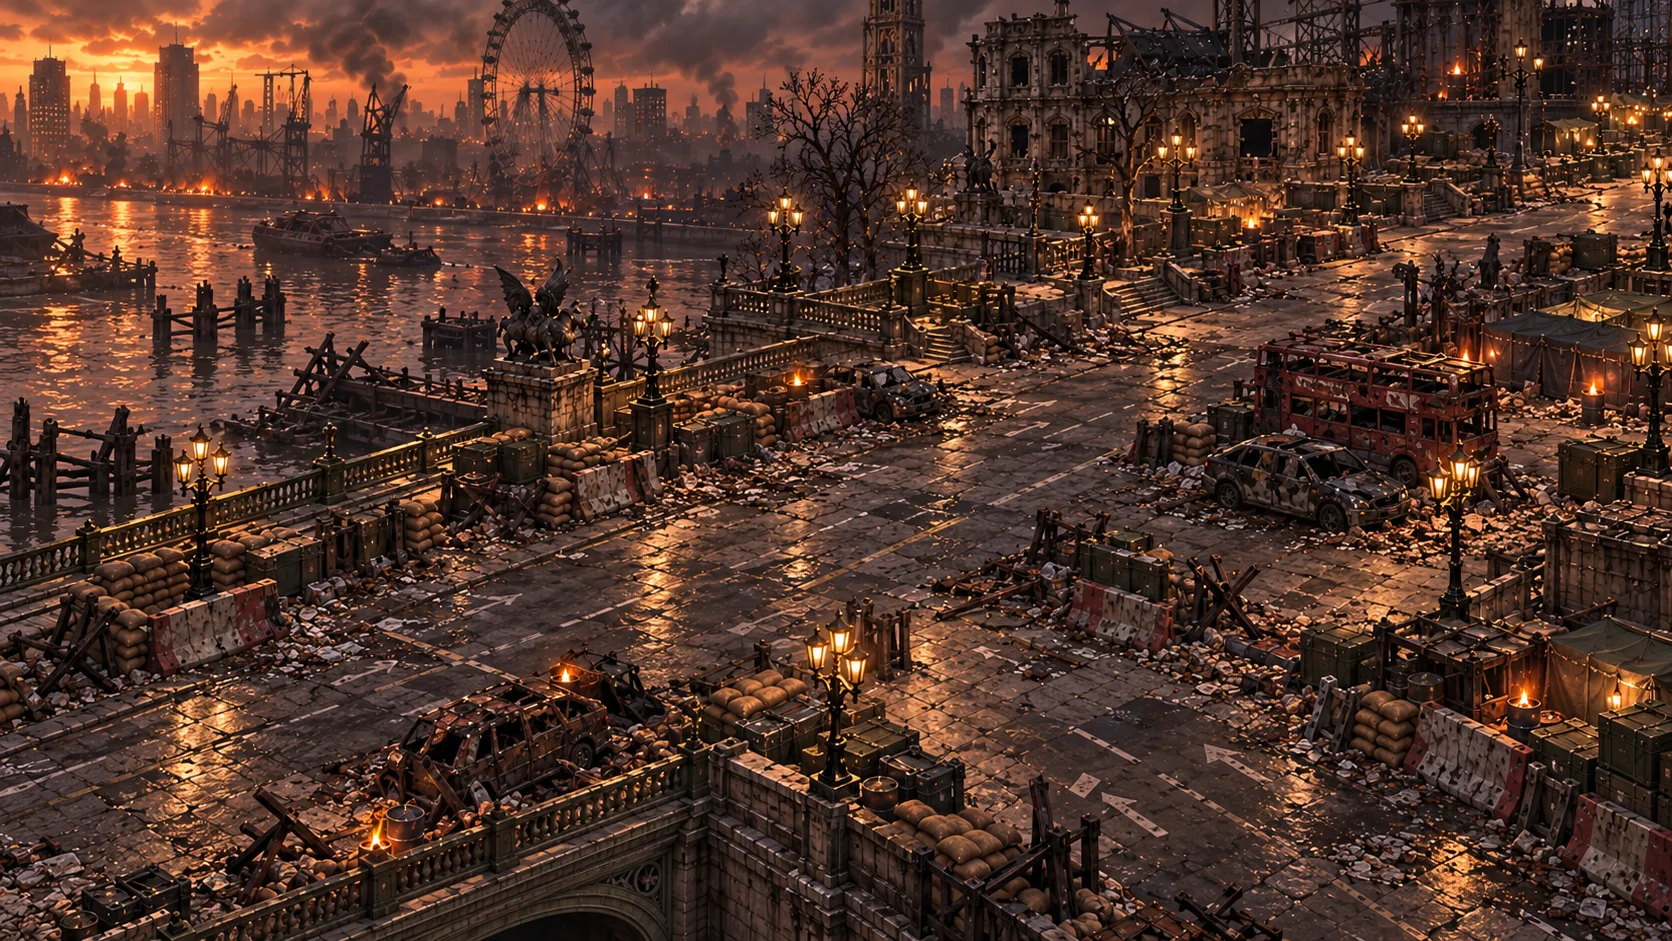
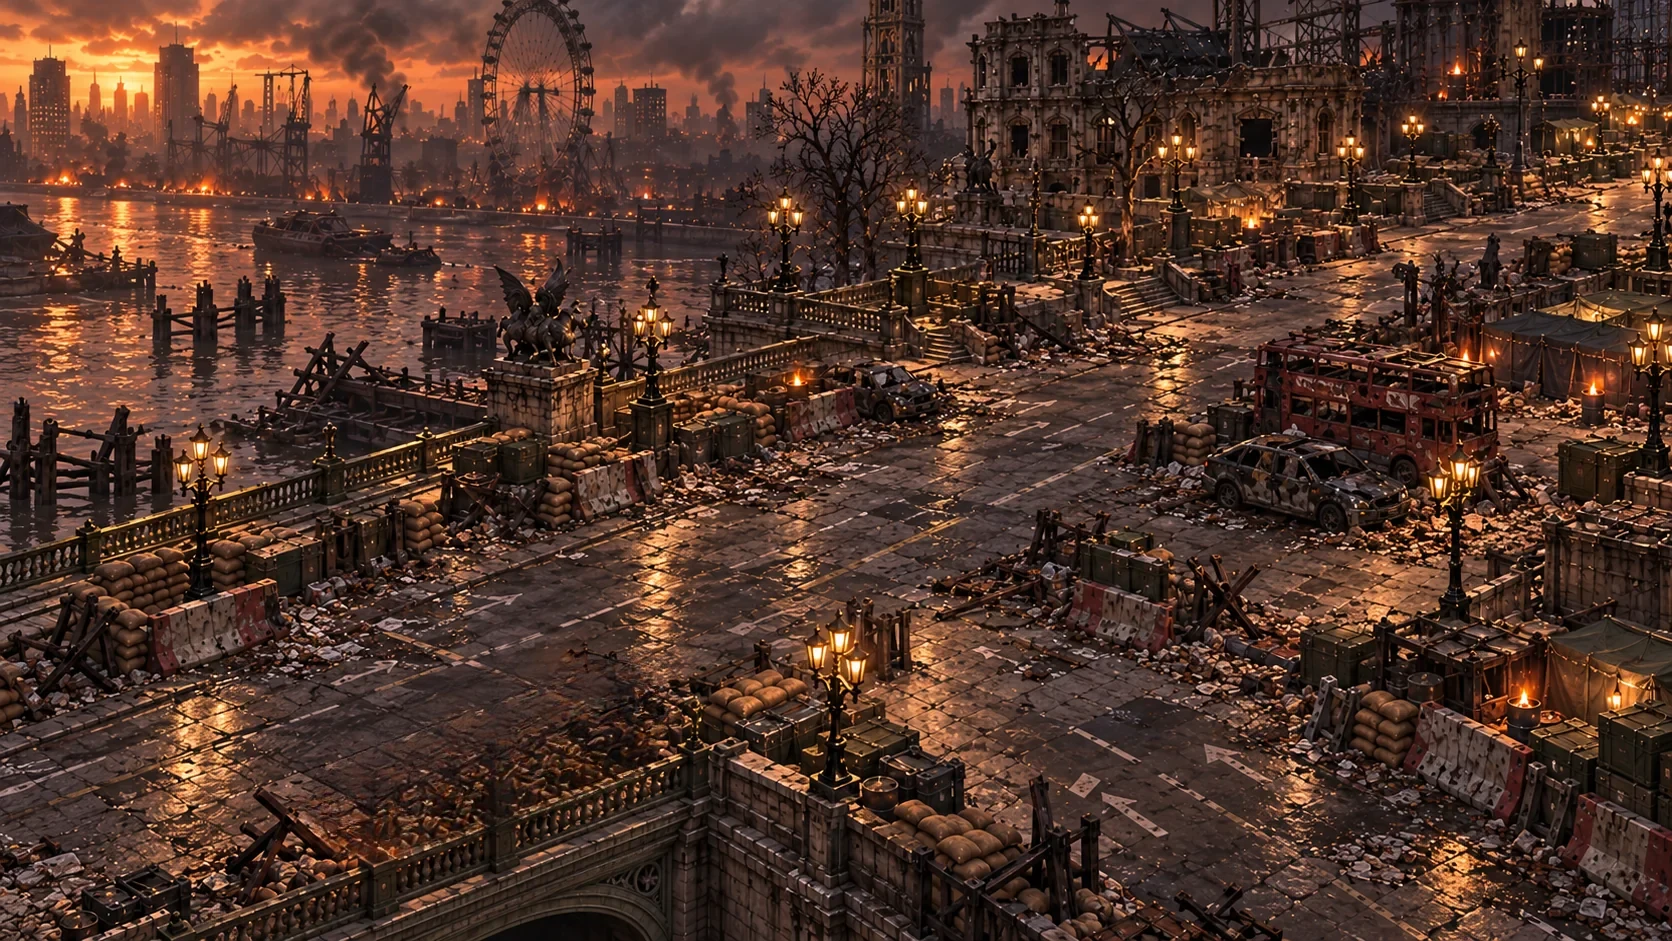
Paint the blocked objects out of three backdrops (alpha: area8, elephant-and-castle, east-bridge)
#355 opened three blocked spots, but the crates, wreck and barriers were still painted there. LaMa (CPU, Mac) inpaints them out of each phone backdrop (same size, lossy WebP); the three depth masks that would still hide a player behind the painted-out objects are removed from the layouts; layout and backdrop pins and the areas test are updated.

Changed region(s): [[0.1555, 0.678, 0.4043, 0.9245]]

diff --git a/Web/tests/data-areas.test.js b/Web/tests/data-areas.test.js
@@ -16,7 +16,7 @@ const raw = () => structuredClone(JSON.parse(rawText));
 const manifest = JSON.parse(fs.readFileSync(new URL("../public/world/manifest.json", import.meta.url)));
 
 test("the data file is pinned", () => {
[2 lines of base64/hex data omitted]
 });
 
 test("areaDefinitions and areaAssets equal the old in-code export (values and key order) except the one stale identity row, and are frozen", () => {
@@ -30,7 +30,8 @@ test("areaDefinitions and areaAssets equal the old in-code export (values and ke
   const withoutConditions = (areas) => areas.map((a) => ({ ...a, exits: a.exits.map(({ condition, entry, ...rest }) => rest) }));
   assert.deepEqual(withoutConditions(areaDefinitions), withoutConditions(old.areas));
   // The alpha-blocker layouts (area8, elephant-and-castle, east-bridge) also changed identity; their rows are checked against the files on disk below.
-  const moved = ["layout.area8", "layout.elephant-and-castle", "layout.east-bridge"];
+  // Their phone backdrops were painted over too (the blocked objects are gone from the picture), so those rows moved as well.
+  const moved = ["layout.area8", "layout.elephant-and-castle", "layout.east-bridge", "backdrop.area8", "backdrop.elephant-and-castle", "backdrop.east-bridge"];
   assert.deepEqual(areaAssets, {
     ...old.assets,
     "layout.east": { ...stale, bytes: 11463, sha256: areaAssets["layout.east"].sha256 },
